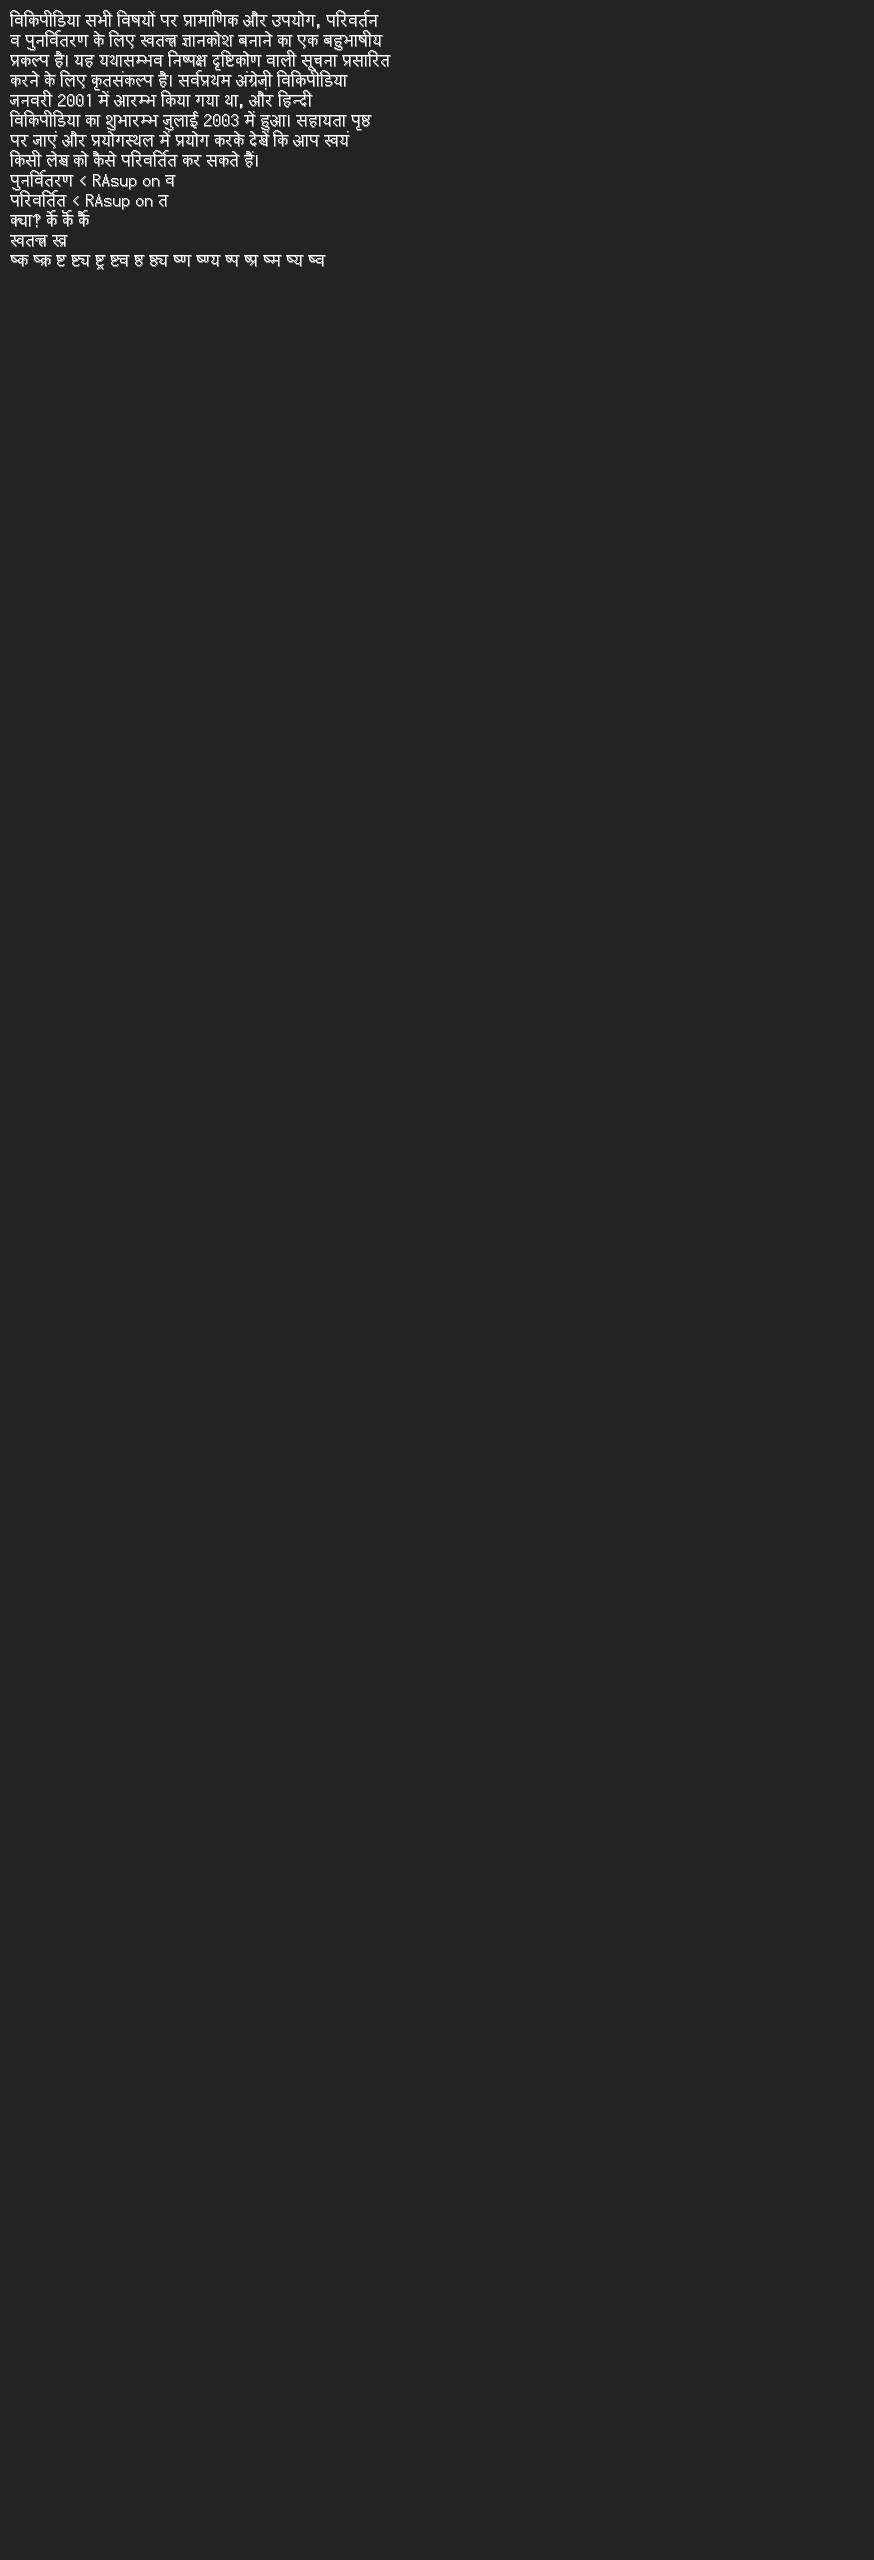
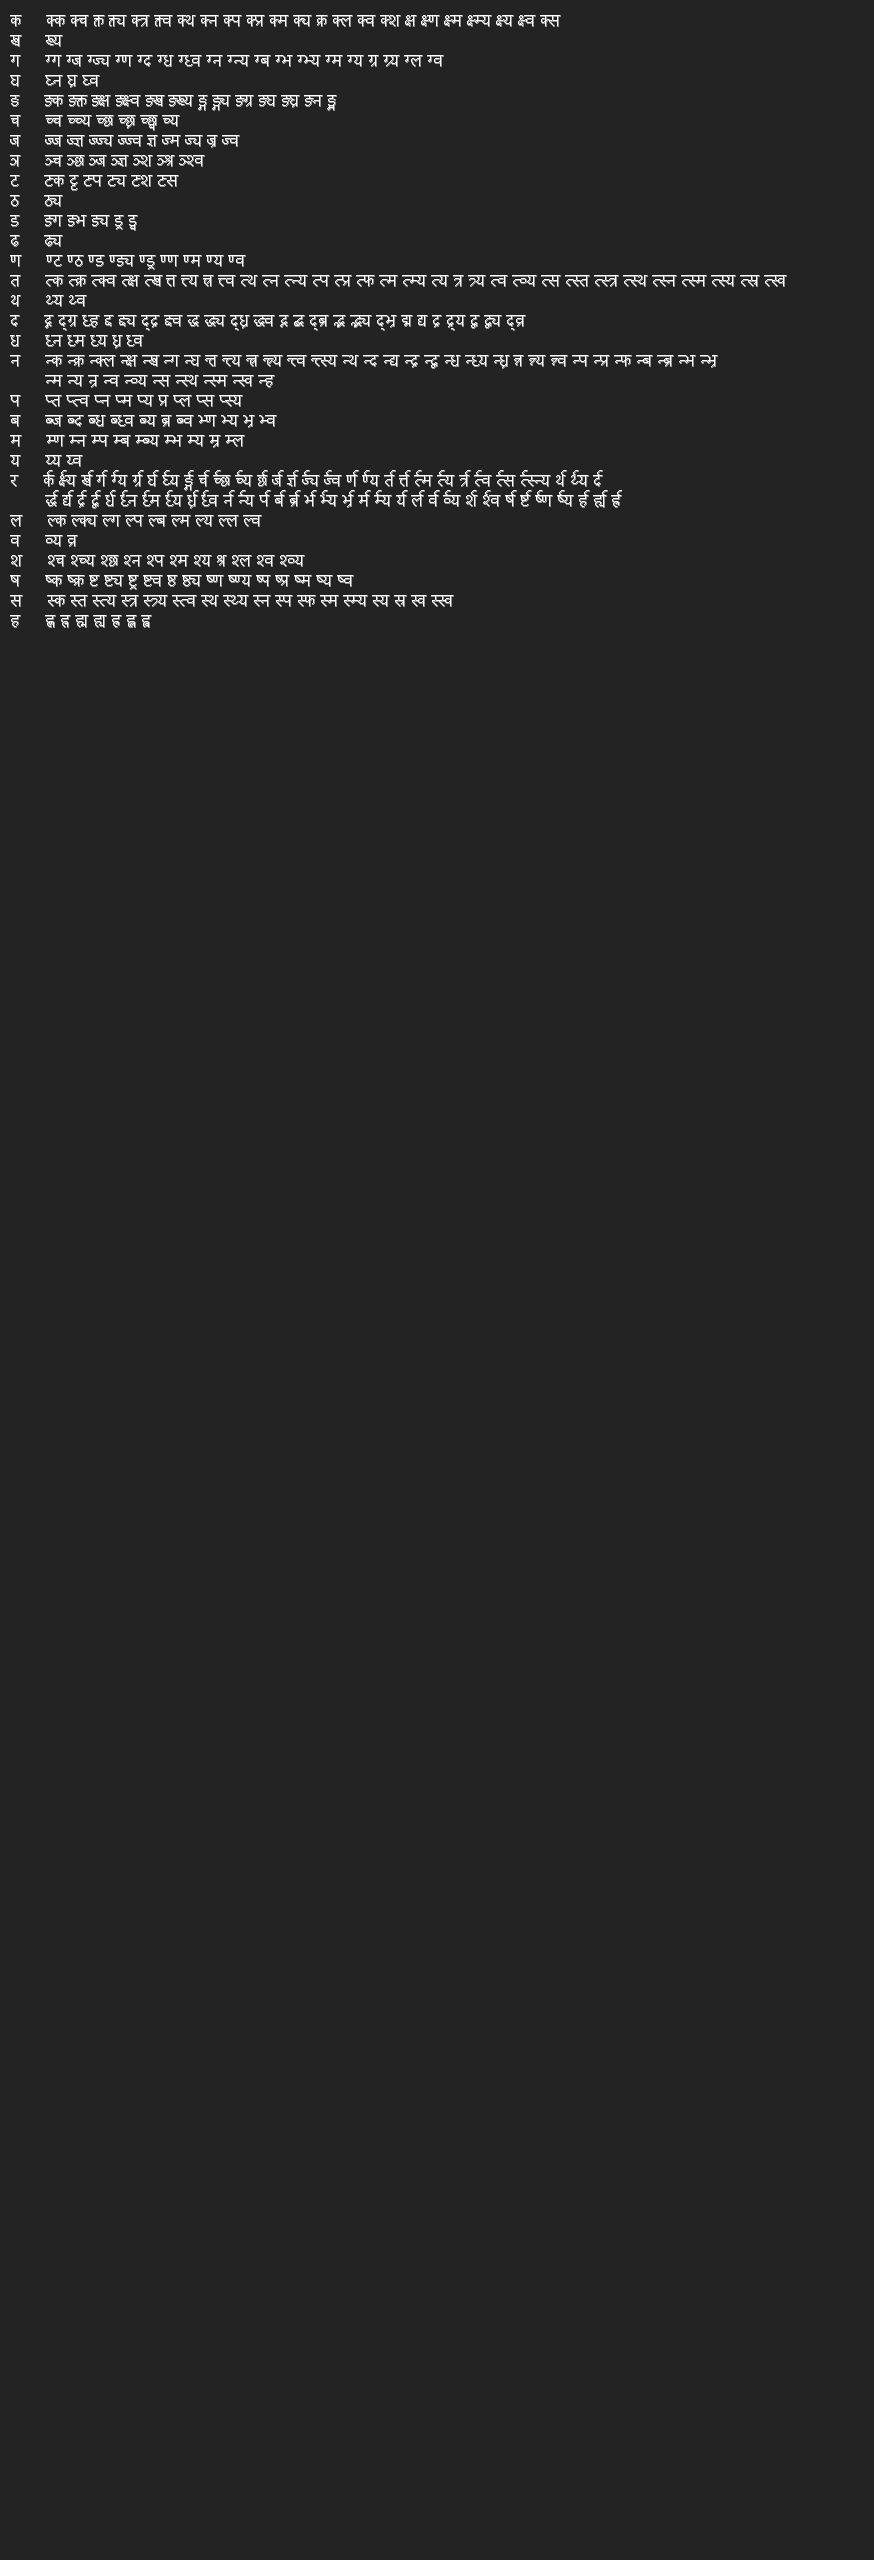
apparently there are lots to adjust

diff --git a/src/net/torvald/terrarumsansbitmap/gdx/TerrarumSansBitmap.kt b/src/net/torvald/terrarumsansbitmap/gdx/TerrarumSansBitmap.kt
@@ -1814,7 +1814,7 @@ class TerrarumSansBitmap(
                 0x091F.toDevaInternal() -> return listOf(0xF0193) // SS.TT
                 0x0920.toDevaInternal() -> return listOf(0xF0194) // SS.TTH
                 0x0922.toDevaInternal() -> return listOf(0xF0195) // SS.DDH
-                0x092A.toDevaInternal() -> return listOf(0xF0177) // SS.P
+                0x092A.toDevaInternal() -> return listOf(DEVANAGARI_LIG_SS_P) // SS.P
                 0xF032A -> return listOf(0xF0373) // SS.TTR
                 0xF032B -> return listOf(0xF0374) // SS.TTHR
                 0xF032D -> return listOf(0xF0375) // SS.DDHR
@@ -2086,7 +2086,7 @@ class TerrarumSansBitmap(
 
         private val MARWARI_DD = 0x978
 
-        private val DEVANAGARI_LIG_K_T = 0xF0170
+        private val DEVANAGARI_LIG_K_T = 0xF018C
         private val DEVANAGARI_LIG_K_SS = 0xF0171
         private val DEVANAGARI_LIG_J_NY = 0xF0172
         private val DEVANAGARI_LIG_T_T = 0xF0173
